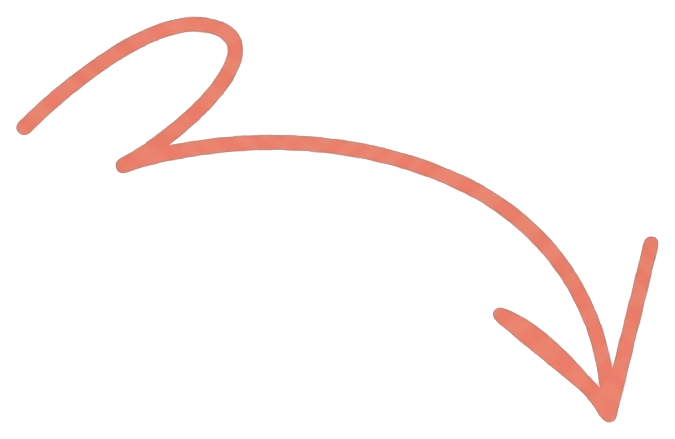
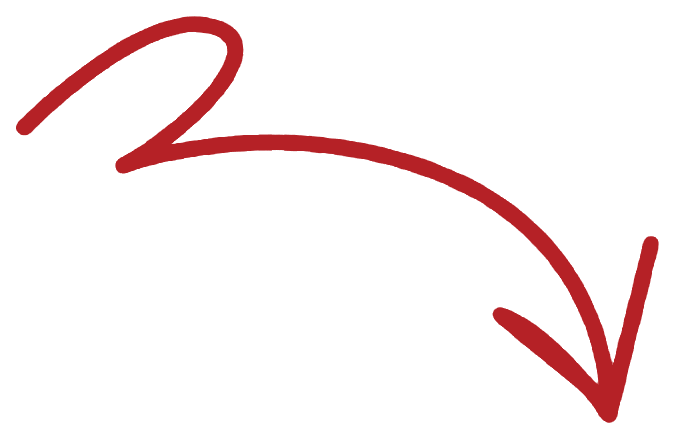
Recolor doodles to brand red; fix off-brand text colors
- Recolor both hand-drawn doodle assets (arrow above the cattle, flourish
  under headings) from the old orange to brand red #B52126.
- Search overlay placeholder: greige #a89384 -> brand muted clay.
- Brighten low-contrast greige body text on dark-red panels to a warm
  near-white (cream-soft) for legibility: grill-box summary, wholesale
  card, newsletter confirmation and the fullscreen menu footer.

Claude-Session: https://claude.ai/code/session_019wLNbJ2piJeHhQgwL1nzVz

Changed region(s): [[0.0, 0.0296, 0.9956, 0.9772]]

diff --git a/components/layout/navbar.tsx b/components/layout/navbar.tsx
@@ -215,7 +215,7 @@ export function Navbar() {
               type="text"
               autoFocus={searchOpen}
               placeholder="Search for products …"
-              className="w-full min-w-0 flex-1 bg-transparent px-0.5 py-2.5 text-[clamp(24px,3.2vw,42px)] font-semibold tracking-[-0.01em] text-ink outline-none placeholder:text-[#a89384]"
+              className="w-full min-w-0 flex-1 bg-transparent px-0.5 py-2.5 text-[clamp(24px,3.2vw,42px)] font-semibold tracking-[-0.01em] text-ink outline-none placeholder:text-clay/70"
             />
             <button
               type="button"
@@ -290,7 +290,7 @@ export function Navbar() {
             ))}
           </nav>
 
-          <div className="mt-auto flex flex-wrap items-center justify-center gap-x-7 gap-y-3.5 text-center font-mono text-[12px] tracking-[0.08em] text-[#9a877d]">
+          <div className="mt-auto flex flex-wrap items-center justify-center gap-x-7 gap-y-3.5 text-center font-mono text-[12px] tracking-[0.08em] text-cream-soft/70">
             <span>{BRAND.location}</span>
             <span>{CONTACT.phonePrimary}</span>
             <span>{CONTACT.phoneSecondary}</span>

diff --git a/components/grill-box-builder.tsx b/components/grill-box-builder.tsx
@@ -92,7 +92,7 @@ export function GrillBoxBuilder() {
           <span className="font-mono text-[12px] uppercase tracking-[0.14em] text-tan">
             Your grill box
           </span>
-          <span className="text-right font-mono text-[12px] text-[#9a877d]">
+          <span className="text-right font-mono text-[12px] text-cream-soft/80">
             {totals.grams > 0 ? `${formatGrams(totals.grams)} total` : "Empty"}
           </span>
         </div>
@@ -122,7 +122,7 @@ export function GrillBoxBuilder() {
             )}
           </div>
         ) : (
-          <p className="mt-4 border-b border-white/10 pb-4 text-[15px] text-[#9a877d]">
+          <p className="mt-4 border-b border-white/10 pb-4 text-[15px] text-cream-soft/80">
             Use the steppers above to stack packs into your box.
           </p>
         )}

diff --git a/app/order/order-view.tsx b/app/order/order-view.tsx
@@ -342,7 +342,7 @@ export function OrderView() {
               Order summary
             </span>
             {totals.grams > 0 && (
-              <span className="font-mono text-[12px] text-[#9a877d]">
+              <span className="font-mono text-[12px] text-cream-soft/80">
                 {formatGrams(totals.grams)} total
               </span>
             )}
@@ -368,7 +368,7 @@ export function OrderView() {
               )}
             </div>
           ) : (
-            <p className="mt-4 border-b border-white/10 pb-4 text-[15px] text-[#9a877d]">
+            <p className="mt-4 border-b border-white/10 pb-4 text-[15px] text-cream-soft/80">
               Nothing picked yet — your items will appear here.
             </p>
           )}

diff --git a/components/newsletter.tsx b/components/newsletter.tsx
@@ -25,7 +25,7 @@ export function NewsletterForm() {
         <p className="m-0 font-hanken text-[17px] font-bold text-cream-soft">
           You&apos;re on the grill list ✓
         </p>
-        <p className="m-0 mt-1.5 text-[13.5px] text-[#9a877d]">
+        <p className="m-0 mt-1.5 text-[13.5px] text-cream-soft/80">
           Flavor news is headed to {email.trim()}.
         </p>
       </div>
